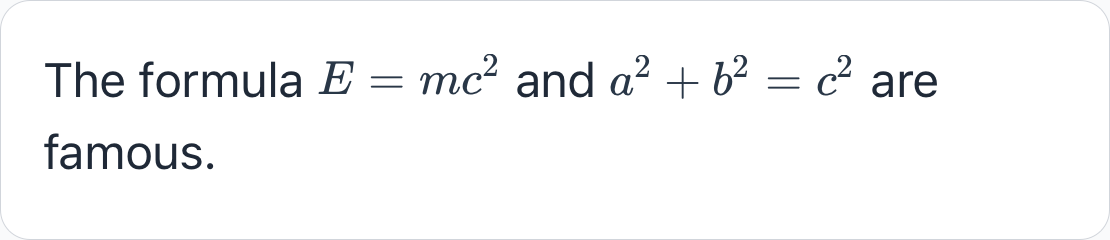
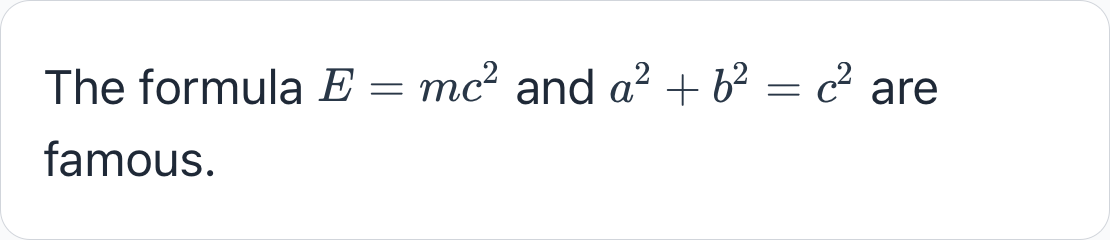
fix(ios): prevent inline math fractions from being clipped by maximumLineHeight (#445)
* fix(ios): prevent inline math fractions from being clipped by maximumLineHeight

* feat(storybook): add InlineMath story for fraction cases with customizable styles

* feat(storybook): refactor Fractions story to use a dedicated component

* chore: update iOS inline math display screenshot

* chore: update hermes-engine checksum in Podfile.lock

Pull request: fix(ios): prevent inline math fractions from being clipped by maximumLineHeight
### What/Why?

Fixes inline math fractions (`\frac`, `\displaystyle\frac`, nested fractions) being clipped on iOS when `paragraph.lineHeight` is set.

The root cause is `applyLineHeight` in `ParagraphStyleUtils.m` pinning both `minimumLineHeight` and `maximumLineHeight` to the same value (matching React Native's `<Text>` behavior). This causes `NSLayoutManager` to clamp line fragment heights, cutting off any `ENRMMathInlineAttachment` whose intrinsic height exceeds that fixed line height.

The fix: for paragraphs containing inline math attachments, set `maximumLineHeight = 0` (no upper constraint) while keeping `minimumLineHeight` at the configured value. This lets math lines grow naturally to fit the content while text-only lines maintain consistent spacing. The change is guarded by `#if ENRICHED_MARKDOWN_MATH` — zero impact on non-math builds or paragraphs without math.

Android is unaffected — its `ReplacementSpan.getSize()` sets font metrics directly and the line grows to fit automatically.

### Testing
<!-- How to test changed code? What testing has been done? -->

#### Screenshots
<!-- If you attach screenshots, please use <img src="" width=200/> -->

| Before | After |
| - | - |
| <video src="https://github.com/user-attachments/assets/e4b20d3c-9fcb-43f9-bee0-01d95de9340c" width=300 /> | <video src="https://github.com/user-attachments/assets/fa5c0c24-24cc-4e47-be6e-7dc0a29de472" width=300 /> |

Closes: #337 


### PR Checklist
[…]

Changed region(s): [[0.0306, 0.2333, 0.8577, 0.4375], [0.0306, 0.5542, 0.2144, 0.7583]]

diff --git a/apps/react-native-example/.rnstorybook/stories/components/EnrichedMarkdownText/inline/InlineMath.stories.tsx b/apps/react-native-example/.rnstorybook/stories/components/EnrichedMarkdownText/inline/InlineMath.stories.tsx
@@ -1,16 +1,22 @@
-import React from 'react';
-import { EnrichedMarkdownTextStory } from '../EnrichedMarkdownTextStory';
+import React, { useState } from 'react';
+import { View, StyleSheet } from 'react-native';
+import { EnrichedMarkdownText } from 'react-native-enriched-markdown';
+import {
+  EnrichedMarkdownTextStory,
+  MarkdownStoryLayout,
+} from '../EnrichedMarkdownTextStory';
 import { storyMeta } from '../shared/storyMeta';
 import {
   githubFlavorArgTypes,
   inlineMathStyledDefaults,
+  numberControl,
   type InlineMathStyleControls,
 } from '../shared/storybookMarkdownStyles';
 import {
   splitStyleControls,
   toInlineMathStyle,
 } from '../shared/storybookStyleBuilders';
-import type { TextStory } from '../shared/storyTypes';
+import type { StoryArgs, TextStory } from '../shared/storyTypes';
 
 const MARKDOWN = 'The formula $E = mc^2$ and $a^2 + b^2 = c^2$ are famous.';
 
@@ -52,3 +58,100 @@ export const Default: TextStory<InlineMathStyleControls> = {
     );
   },
 };
+
+const FRACTION_CASES = [
+  { label: 'Simple fraction', markdown: 'Foo $\\frac{4}{1}$' },
+  {
+    label: 'Displaystyle fraction with operators',
+    markdown: '$\\left| \\displaystyle\\frac{(-6) \\cdot 5}{-2} \\right|$',
+  },
+  {
+    label: 'Nested fractions',
+    markdown: '$\\frac{\\frac{a}{b}}{\\frac{c}{d}}$',
+  },
+  {
+    label: 'Mixed text and fraction',
+    markdown:
+      'The result is $\\frac{x^2 + 1}{2x - 3}$ which simplifies nicely.',
+  },
+];
+
+type FractionControls = { fontSize: number; lineHeight: number; color: string };
+
+const fractionDefaults: FractionControls = {
+  fontSize: 18,
+  lineHeight: 28,
+  color: '#1e3a5f',
+};
+
+const fractionArgTypes = {
+  fontSize: numberControl('markdownStyle.paragraph.fontSize', {
+    min: 12,
+    max: 48,
+    step: 1,
+  }),
+  lineHeight: numberControl(
+    'markdownStyle.paragraph.lineHeight — set to 0 to omit',
+    { min: 0, max: 100, step: 1 }
+  ),
+  color: {
+    control: 'color',
+    description: 'markdownStyle.inlineMath.color',
+  },
+};
+
+function FractionsStory(args: StoryArgs<FractionControls>) {
+  const { fontSize, lineHeight, color, ...rest } = args;
+  const [markdown, setMarkdown] = useState(
+    FRACTION_CASES.map((c) => `${c.label}:\n${c.markdown}`).join('\n\n')
+  );
+
+  return (
+    <MarkdownStoryLayout
+      title="Inline Math — Fractions"
+      description="Regression cases for fraction clipping when paragraph lineHeight is set."
+      markdown={markdown}
+      onMarkdownChange={setMarkdown}
+      output={
+        <View style={fractionStyles.cases}>
+          {FRACTION_CASES.map((c) => (
+            <View key={c.label} style={fractionStyles.caseRow}>
+              <EnrichedMarkdownText
+                {...rest}
+                markdown={c.markdown}
+                markdownStyle={{
+                  paragraph: {
+                    fontSize,
+                    ...(lineHeight > 0 ? { lineHeight } : {}),
+                  },
+                  inlineMath: { color },
+                }}
+                containerStyle={fractionStyles.markdownContainer}
+              />
+            </View>
+          ))}
+        </View>
+      }
+    />
+  );
+}
+
+export const Fractions: TextStory<FractionControls> = {
+  args: {
+    markdown: FRACTION_CASES.map((c) => c.markdown).join('\n\n'),
+    flavor: 'github',
+    ...fractionDefaults,
+  },
+  argTypes: fractionArgTypes,
+  render: (args) => <FractionsStory {...args} />,
+};
+
+const fractionStyles = StyleSheet.create({
+  cases: { gap: 16 },
+  caseRow: {
+    borderBottomWidth: StyleSheet.hairlineWidth,
+    borderBottomColor: '#e5e7eb',
+    paddingBottom: 12,
+  },
+  markdownContainer: { backgroundColor: '#ffffff' },
+});

diff --git a/packages/react-native-enriched-markdown/ios/utils/ParagraphStyleUtils.m b/packages/react-native-enriched-markdown/ios/utils/ParagraphStyleUtils.m
@@ -1,6 +1,11 @@
 #import "ParagraphStyleUtils.h"
+#import "ENRMFeatureFlags.h"
 #import "LastElementUtils.h"
 #import <React/RCTI18nUtil.h>
+
+#if ENRICHED_MARKDOWN_MATH
+#import "ENRMMathInlineAttachment.h"
+#endif
 
 NSAttributedString *kNewlineAttributedString;
 static NSParagraphStyle *kBlockSpacerTemplate;
@@ -247,10 +252,24 @@ void applyLineHeight(NSMutableAttributedString *output, NSRange range, CGFloat l
     return;
   }
 
+  __block BOOL hasMath = NO;
+
+#if ENRICHED_MARKDOWN_MATH
+  [output enumerateAttribute:NSAttachmentAttributeName
+                     inRange:range
+                     options:0
+                  usingBlock:^(id value, __unused NSRange attrRange, BOOL *stop) {
+                    if ([value isKindOfClass:[ENRMMathInlineAttachment class]]) {
+                      hasMath = YES;
+                      *stop = YES;
+                    }
+                  }];
+#endif
+
   NSMutableParagraphStyle *style = getOrCreateParagraphStyle(output, range.location);
 
   style.minimumLineHeight = lineHeight;
-  style.maximumLineHeight = lineHeight;
+  style.maximumLineHeight = hasMath ? 0 : lineHeight;
 
   [output addAttribute:NSParagraphStyleAttributeName value:style range:range];
 }